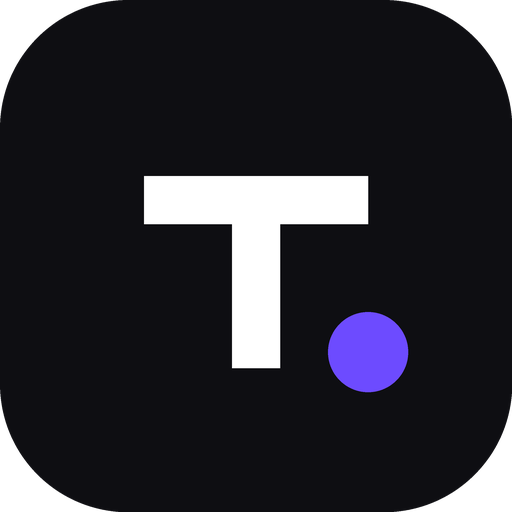
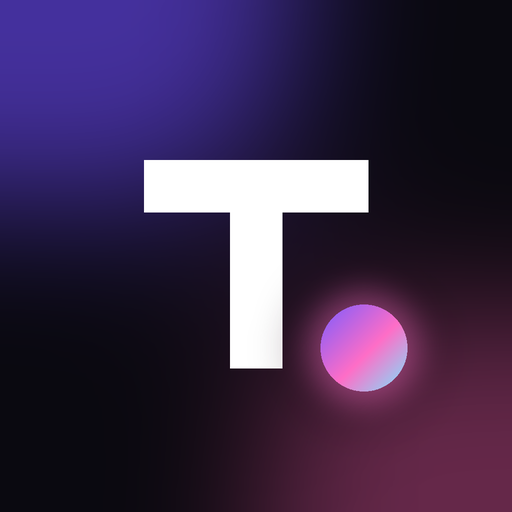
App-style mobile UI: holographic K-pop accents, bottom tab bar, installable home-screen app with safe areas; keep-alive worker
- Hero search: glass pill with gradient ring, icon button on phones so the placeholder never hides
- Trending artist chips, holographic buttons and chat button
- Bottom tab bar (Home / Explore / Sell / Tickets / Account) on phones and tablets
- manifest.json, new app icons (apple-touch-icon, 192, 512, maskable), standalone meta tags,
  header and admin bar padded below the iPhone status bar / Dynamic Island
- Footer language switch removed (already in the header)
- ops/keepalive Cloudflare Worker (every 5 min) + GitHub Action backup (every 10 min)

diff --git a/web/src/components/Layout.jsx b/web/src/components/Layout.jsx
@@ -1,4 +1,4 @@
-import { Check, ChevronDown, Globe, LogOut, Menu, Moon, Search, Shield, Sun, Ticket, User, Wallet, X } from 'lucide-react'
+import { Check, ChevronDown, Compass, Globe, Home as HomeIcon, LogOut, Menu, Moon, Plus, Search, Shield, Sun, Ticket, User, Wallet, X } from 'lucide-react'
 import { QRCodeSVG } from 'qrcode.react'
 import { useEffect, useRef, useState } from 'react'
 import { Link, NavLink, Outlet, useLocation, useNavigate } from 'react-router-dom'
@@ -17,13 +17,19 @@ export function SearchBox({ className = '', big = false }) {
   const { t } = useT()
   const [q, setQ] = useState('')
   return (
-    <form role="search" className={cls('relative', className)}
+    <form role="search" className={cls('relative', big && 'holo-ring rounded-full', className)}
       onSubmit={(e) => { e.preventDefault(); nav(`/concerts${q.trim() ? `?q=${encodeURIComponent(q.trim())}` : ''}`) }}>
-      <Search className={cls('pointer-events-none absolute left-3.5 top-1/2 -translate-y-1/2 text-muted', big ? 'h-5 w-5' : 'h-4 w-4')} />
-      <input value={q} onChange={(e) => setQ(e.target.value)} aria-label={t('Search concerts')}
-        placeholder={t('Search artist, concert, city or venue')}
-        className={cls('input pl-10', big ? 'h-14 rounded-2xl text-base shadow-card' : 'h-10 bg-raised')} />
-      {big && <button className="btn-accent absolute right-2 top-2 h-10 px-5">{t('Search')}</button>}
+      <Search className={cls('pointer-events-none absolute top-1/2 -translate-y-1/2', big ? 'left-5 h-5 w-5 text-white/60' : 'left-3.5 h-4 w-4 text-muted')} />
+      <input value={q} onChange={(e) => setQ(e.target.value)} aria-label={t('Search concerts')} enterKeyHint="search"
+        placeholder={t(big ? 'Search artist, concert or city' : 'Search artist, concert, city or venue')}
+        className={big
+          ? 'h-14 w-full truncate rounded-full border-0 bg-[#0B0A12]/70 pl-12 pr-16 text-[16px] text-white outline-none backdrop-blur-xl transition placeholder:text-white/45 focus:bg-[#0B0A12]/85 sm:h-[60px] sm:pr-36'
+          : 'input h-10 bg-raised pl-10'} />
+      {big && (
+        <button aria-label={t('Search')} className="btn-holo absolute right-1.5 top-1.5 h-11 w-11 !rounded-full !p-0 sm:h-12 sm:w-auto sm:!px-6">
+          <Search className="h-5 w-5 sm:hidden" /><span className="hidden sm:inline">{t('Search')}</span>
+        </button>
+      )}
     </form>
   )
 }
@@ -144,8 +150,8 @@ export default function Layout() {
     return () => window.removeEventListener('scroll', f)
   }, [])
   return (
-    <div className="flex min-h-screen flex-col">
-      <header className={cls('sticky top-0 z-50 border-b transition-all duration-300', scrolled ? 'border-line bg-bg/85 shadow-card backdrop-blur-xl' : 'border-transparent bg-bg/60 backdrop-blur-md')}>
+    <div className="flex min-h-screen flex-col pb-[calc(64px+var(--safe-bottom))] lg:pb-0">
+      <header className={cls('safe-header sticky top-0 z-50 border-b pt-[var(--safe-top)] transition-all duration-300', scrolled ? 'border-line bg-bg/85 shadow-card backdrop-blur-xl' : 'border-transparent bg-bg/60 backdrop-blur-md')}>
         <div className="page flex h-16 items-center gap-3">
           <Link to="/" aria-label="TicketNest" className="transition hover:opacity-80"><Logo /></Link>
           <nav className="ml-3 hidden items-center gap-1 lg:flex">
@@ -181,6 +187,7 @@ export default function Layout() {
       </header>
       <main className="flex-1"><PageTransition><Outlet /></PageTransition></main>
       <Footer />
+      <TabBar />
       <Chatbot />
     </div>
   )
@@ -200,11 +207,47 @@ function Footer() {
           {links.map(([to, l]) => <Link key={to} to={to} className="transition hover:text-ink">{l}</Link>)}
           {support && <a href={`https://t.me/${support}`} target="_blank" rel="noreferrer" className="transition hover:text-ink">{t('Support')}</a>}
         </nav>
-        <LangSwitch up />
       </div>
       <p className="page border-t border-line py-4 text-[11.5px] leading-relaxed text-muted">
         © {new Date().getFullYear()} {siteName} · {t('Independent resale marketplace, not affiliated with any artist or official seller.')}
       </p>
     </footer>
+  )
+}
+
+// Phone / tablet: app-style bottom tabs (thumb reach), with Sell as the raised centre action.
+function TabBar() {
+  const { user } = useApp()
+  const { t } = useT()
+  const loc = useLocation()
+  const p = loc.pathname
+  const tabs = [
+    ['/', t('Home'), HomeIcon, p === '/'],
+    ['/concerts', t('Explore'), Compass, p.startsWith('/concerts') || p.startsWith('/artists')],
+    ['/sell', t('Sell'), Plus, p.startsWith('/sell'), true],
+    [user ? '/account/orders' : '/login', t('Tickets'), Ticket, p.startsWith('/account/orders') || p.startsWith('/orders')],
+    [user ? '/account' : '/login', user ? t('Account') : t('Sign in'), User,
+      (p.startsWith('/account') && !p.startsWith('/account/orders')) || p === '/login' || p === '/register'],
+  ]
+  return (
+    <nav aria-label="Main" className="fixed inset-x-0 bottom-0 z-[60] border-t border-line/80 bg-surface/85 pb-[var(--safe-bottom)] backdrop-blur-xl lg:hidden">
+      <div className="mx-auto grid h-16 max-w-md grid-cols-5 px-2">
+        {tabs.map(([to, label, Icon, on, center]) => center ? (
+          <Link key="sell" to={to} aria-label={label} className="group flex flex-col items-center justify-center">
+            <span className="holo-bg -mt-6 grid h-[52px] w-[52px] place-items-center rounded-full text-white shadow-[0_10px_24px_-6px_rgba(214,90,200,.7)] ring-4 ring-bg transition group-active:scale-90">
+              <Icon className="h-6 w-6" strokeWidth={2.4} />
+            </span>
+            <span className={cls('mt-0.5 text-[10.5px] font-semibold', on ? 'text-ink' : 'text-muted')}>{label}</span>
+          </Link>
+        ) : (
+          <Link key={label} to={to} aria-current={on ? 'page' : undefined}
+            className={cls('relative flex min-w-0 flex-col items-center justify-center gap-1 transition active:scale-90', on ? 'text-accent' : 'text-muted')}>
+            {on && <span className="absolute top-1.5 h-1 w-1 rounded-full bg-accent shadow-[0_0_8px_2px_rgb(var(--accent)/.6)]" />}
+            <Icon className="h-[22px] w-[22px]" strokeWidth={on ? 2.3 : 1.8} />
+            <span className="max-w-full truncate px-1 text-[10.5px] font-semibold">{label}</span>
+          </Link>
+        ))}
+      </div>
+    </nav>
   )
 }

diff --git a/web/src/pages/Home.jsx b/web/src/pages/Home.jsx
@@ -28,24 +28,32 @@ export default function Home() {
     <>
       <section className="relative overflow-hidden text-white">
         <LiveStage />
-        <div className="page relative flex min-h-[600px] flex-col justify-center py-24 sm:min-h-[640px]">
-          <p className="rise inline-flex w-fit items-center gap-2 rounded-full border border-white/15 bg-white/5 px-3 py-1.5 text-[12px] font-semibold tracking-wide text-white/80 backdrop-blur">
+        <div className="page relative flex min-h-[560px] flex-col justify-center py-16 sm:min-h-[640px] sm:py-24">
+          <p className="rise holo-ring inline-flex w-fit items-center gap-2 rounded-full bg-white/[.06] px-3 py-1.5 text-[12px] font-semibold tracking-wide text-white/85 backdrop-blur">
             <span className="relative flex h-2 w-2"><span className="absolute inline-flex h-full w-full animate-ping rounded-full bg-[#7CF29C] opacity-75" /><span className="relative inline-flex h-2 w-2 rounded-full bg-[#7CF29C]" /></span>
             {t('K-pop concert ticket resale · Cambodia')}
           </p>
           <h1 className="rise mt-5 max-w-3xl text-[40px] font-bold leading-[1.04] sm:text-[66px]" style={{ animationDelay: '80ms' }}>
-            {t('Your seat at the show,')} <span className="bg-gradient-to-r from-[#C4B5FF] via-[#FF9BD0] to-[#8BEAF0] bg-clip-text text-transparent">{t("from fans who can't go.")}</span>
+            {t('Your seat at the show,')} <span className="holo-text">{t("from fans who can't go.")}</span>
           </h1>
           <p className="rise mt-5 max-w-xl text-[17px] leading-relaxed text-white/75" style={{ animationDelay: '160ms' }}>
             {t('Every listing is checked by our team before it goes live. Pay securely with KHQR and get your ticket through Telegram.')}
           </p>
-          <div className="rise mt-8 max-w-xl text-ink" style={{ animationDelay: '240ms' }}><SearchBox big /></div>
-          <div className="rise mt-6 flex flex-wrap gap-2" style={{ animationDelay: '320ms' }}>
-            {(data?.artists || []).slice(0, 7).map((a) => (
-              <Link key={a.id} to={`/artists/${a.slug}`} className="rounded-full border border-white/15 bg-white/5 px-3.5 py-1.5 text-[13px] font-medium text-white/85 backdrop-blur transition-all duration-200 hover:-translate-y-0.5 hover:border-white/40 hover:bg-white/15">{a.name}</Link>
-            ))}
-          </div>
-          <div className="rise mt-10 flex flex-wrap gap-x-8 gap-y-3 text-[13px] text-white/70" style={{ animationDelay: '400ms' }}>
+          <div className="rise mt-8 max-w-xl" style={{ animationDelay: '240ms' }}><SearchBox big /></div>
+          {data?.artists?.length > 0 && (
+            <div className="rise no-scrollbar -mx-4 mt-5 flex items-center gap-2 overflow-x-auto px-4 sm:mx-0 sm:flex-wrap sm:px-0" style={{ animationDelay: '320ms' }}>
+              <span className="shrink-0 text-[11px] font-bold uppercase tracking-[.16em] text-white/50">{t('Trending')}</span>
+              {data.artists.slice(0, 7).map((a) => (
+                <Link key={a.id} to={`/artists/${a.slug}`} className="flex shrink-0 items-center gap-1.5 rounded-full border border-white/15 bg-white/[.06] py-1 pl-1 pr-3 text-[13px] font-medium text-white/90 backdrop-blur transition-all duration-200 hover:-translate-y-0.5 hover:border-white/40 hover:bg-white/15">
+                  {a.image_url && !isLogo(a.image_url)
+                    ? <img src={a.image_url} alt="" className="h-6 w-6 rounded-full object-cover" loading="lazy" />
+                    : <span className="holo-bg grid h-6 w-6 place-items-center rounded-full text-[10px] font-bold text-white">{a.name.slice(0, 1)}</span>}
+                  {a.name}
+                </Link>
+              ))}
+            </div>
+          )}
+          <div className="rise mt-8 grid grid-cols-1 gap-2.5 text-[13px] text-white/70 sm:mt-10 sm:flex sm:flex-wrap sm:gap-x-8" style={{ animationDelay: '400ms' }}>
             {[[ShieldCheck, t('Every listing reviewed')], [Zap, t('Instant KHQR payment')], [MessageCircle, t('Delivered via Telegram')]].map(([Icon, l]) => (
               <span key={l} className="flex items-center gap-2"><Icon className="h-4 w-4 text-[#C4B5FF]" />{l}</span>
             ))}

diff --git a/web/src/index.css b/web/src/index.css
@@ -57,7 +57,8 @@ h1, h2, h3, .font-display { font-family: theme('fontFamily.display'); letter-spa
          font-semibold transition-all duration-200 ease-out hover:-translate-y-px active:translate-y-0 active:scale-[.97]
          disabled:pointer-events-none disabled:opacity-50; }
   .btn-primary { @apply btn bg-ink text-bg shadow-sm hover:shadow-lift; }
-  .btn-accent { @apply btn bg-accent text-accent-ink shadow-[0_8px_24px_-10px_rgb(var(--accent)/.7)] hover:shadow-[0_14px_32px_-10px_rgb(var(--accent)/.8)] hover:brightness-110; }
+  .btn-accent { @apply btn bg-accent text-white shadow-[0_8px_24px_-10px_rgb(var(--accent)/.7)] hover:shadow-[0_14px_32px_-10px_rgb(var(--accent)/.8)] hover:brightness-110;
+    background-image: linear-gradient(115deg, rgb(var(--accent)) 0%, #B24BE8 60%, #E0529F 100%); }
   .btn-ghost { @apply btn border border-line bg-surface hover:border-ink/20 hover:bg-raised; }
   /* light sweep across primary buttons on hover */
   .btn-accent::after, .btn-primary::after { content: ''; position: absolute; inset: 0; transform: translateX(-120%);
@@ -122,3 +123,30 @@ h1, h2, h3, .font-display { font-family: theme('fontFamily.display'); letter-spa
 .bar-grow { transform-origin: bottom; animation: grow-y .7s cubic-bezier(.2,.7,.2,1) both; }
 @keyframes draw { from { stroke-dashoffset: var(--len, 1200) } to { stroke-dashoffset: 0 } }
 .line-draw { stroke-dasharray: var(--len, 1200); animation: draw 1.2s ease-out both; }
+
+/* K-pop "holographic" accent: violet -> pink -> cyan, like lightsticks and photocard foil */
+:root { --holo: linear-gradient(115deg, #7C5CFF 0%, #C45BFF 35%, #FF6EC7 65%, #7AE6FF 100%); }
+.holo-bg { background-image: var(--holo); background-size: 160% 160%; animation: holo-shift 8s ease-in-out infinite; }
+.holo-text { background-image: var(--holo); -webkit-background-clip: text; background-clip: text; color: transparent; }
+@layer components {
+  .btn-holo { @apply btn text-white; background-image: var(--holo); background-size: 160% 160%;
+    animation: holo-shift 8s ease-in-out infinite; box-shadow: 0 10px 28px -10px rgba(214, 90, 200, .75); }
+  .btn-holo:hover { filter: brightness(1.08); box-shadow: 0 14px 34px -10px rgba(214, 90, 200, .9); }
+}
+/* 1px gradient ring around a rounded element (search pill, badges) */
+.holo-ring { position: relative; isolation: isolate; }
+.holo-ring::before { content: ''; position: absolute; inset: -1px; z-index: -1; border-radius: inherit; padding: 1px;
+  background: linear-gradient(115deg, rgba(124,92,255,.9), rgba(255,110,199,.75), rgba(122,230,255,.8));
+  -webkit-mask: linear-gradient(#000 0 0) content-box, linear-gradient(#000 0 0); -webkit-mask-composite: xor;
+  mask: linear-gradient(#000 0 0) content-box exclude, linear-gradient(#000 0 0); pointer-events: none; }
+.holo-ring:focus-within::before { box-shadow: 0 0 0 4px rgba(196, 91, 255, .25); }
+@keyframes holo-shift { 0%,100% { background-position: 0% 50% } 50% { background-position: 100% 50% } }
+
+/* Installed app (home screen): the status bar is white text over the page, so keep a dark band behind it in light mode */
+.safe-header::before { content: ''; position: absolute; inset: 0 0 auto; height: var(--safe-top); background: #0A0910; }
+.dark .safe-header::before { background: transparent; }
+@media (display-mode: standalone) {
+  html, body { overscroll-behavior-y: none; }
+  body { -webkit-user-select: none; user-select: none; }
+  input, textarea, [contenteditable], p, td { -webkit-user-select: text; user-select: text; }
+}

diff --git a/web/src/pages/admin/AdminApp.jsx b/web/src/pages/admin/AdminApp.jsx
@@ -79,7 +79,7 @@ export default function AdminApp() {
       </aside>
 
       {/* phone / tablet top bar */}
-      <header className="sticky top-0 z-40 flex h-14 items-center gap-3 border-b border-line bg-surface/90 px-4 backdrop-blur-xl lg:hidden">
+      <header className="sticky top-0 z-40 flex h-[calc(56px+var(--safe-top))] items-center gap-3 border-b border-line bg-surface/90 px-4 pt-[var(--safe-top)] backdrop-blur-xl lg:hidden">
         <button onClick={() => setOpen(true)} className="grid h-10 w-10 place-items-center rounded-xl border border-line" aria-label="Menu"><Menu className="h-5 w-5" /></button>
         <div className="min-w-0 flex-1"><p className="text-[11px] font-semibold uppercase tracking-wider text-accent">Admin</p><p className="-mt-0.5 truncate font-semibold">{current?.[1] || 'TicketNest'}</p></div>
         <Avatar user={user} size={34} />
@@ -87,7 +87,7 @@ export default function AdminApp() {
       {open && (
         <div className="fixed inset-0 z-50 lg:hidden" onClick={() => setOpen(false)}>
           <div className="absolute inset-0 bg-black/50 backdrop-blur-sm" />
-          <div className="absolute inset-y-0 left-0 flex w-[82%] max-w-[300px] flex-col bg-surface shadow-lift" style={{ animation: 'drawer .28s cubic-bezier(.2,.7,.2,1)' }} onClick={(e) => e.stopPropagation()}>
+          <div className="absolute inset-y-0 left-0 flex w-[82%] max-w-[300px] flex-col bg-surface pb-[var(--safe-bottom)] pt-[var(--safe-top)] shadow-lift" style={{ animation: 'drawer .28s cubic-bezier(.2,.7,.2,1)' }} onClick={(e) => e.stopPropagation()}>
             <div className="flex h-14 items-center justify-between px-5"><Logo /><button onClick={() => setOpen(false)} aria-label="Close"><X className="h-5 w-5" /></button></div>
             <div className="flex-1 overflow-y-auto py-2"><NavList admin={admin} onPick={() => setOpen(false)} /></div>
             <Footer user={user} logout={logout} dark={dark} applyTheme={applyTheme} />
@@ -95,7 +95,7 @@ export default function AdminApp() {
         </div>
       )}
 
-      <main className="min-w-0 p-4 sm:p-6 lg:p-8">
+      <main className="min-w-0 p-4 pb-[calc(16px+var(--safe-bottom))] sm:p-6 lg:p-8">
         <Suspense fallback={<Loading />}>
           <PageTransition>
             <Routes>

diff --git a/web/src/components/Chatbot.jsx b/web/src/components/Chatbot.jsx
@@ -88,12 +88,12 @@ export default function Chatbot() {
   return (
     <>
       <button onClick={() => setOpen((o) => !o)} aria-label={t('Help chat')}
-        className={cls('fixed bottom-[calc(20px+var(--safe-bottom))] right-5 z-[70] grid h-14 w-14 place-items-center rounded-full bg-accent text-accent-ink shadow-[0_12px_32px_-8px_rgb(var(--accent)/.8)] transition-all duration-300 hover:scale-105 active:scale-95',
+        className={cls('fixed bottom-[calc(80px+var(--safe-bottom))] right-4 z-[70] lg:bottom-[calc(20px+var(--safe-bottom))] lg:right-5 grid h-14 w-14 place-items-center rounded-full bg-accent text-accent-ink shadow-[0_12px_32px_-8px_rgb(var(--accent)/.8)] transition-all duration-300 hover:scale-105 active:scale-95',
           open && 'rotate-90')}>
         {open ? <X className="h-6 w-6" /> : <MessageCircle className="h-6 w-6" />}
       </button>
       {open && (
-        <div className="pop fixed bottom-[calc(88px+var(--safe-bottom))] right-3 z-[70] flex h-[min(560px,calc(100vh-120px))] w-[calc(100vw-24px)] max-w-[380px] flex-col overflow-hidden rounded-3xl border border-line bg-surface shadow-lift sm:right-5">
+        <div className="pop fixed bottom-[calc(148px+var(--safe-bottom))] right-3 z-[70] flex h-[min(560px,calc(100dvh-210px-var(--safe-top)-var(--safe-bottom)))] lg:bottom-[calc(88px+var(--safe-bottom))] lg:h-[min(560px,calc(100vh-120px))] w-[calc(100vw-24px)] max-w-[380px] flex-col overflow-hidden rounded-3xl border border-line bg-surface shadow-lift sm:right-5">
           <div className="flex items-center gap-3 border-b border-line bg-ink px-4 py-3.5 text-bg">
             <span className="grid h-9 w-9 place-items-center rounded-full bg-accent text-accent-ink"><Sparkles className="h-4 w-4" /></span>
             <div className="min-w-0 flex-1"><p className="text-sm font-semibold">{t('TicketNest help')}</p><p className="text-[12px] text-bg/60">{t('Usually answers instantly')}</p></div>

diff --git a/web/index.html b/web/index.html
@@ -3,9 +3,19 @@
   <head>
     <meta charset="UTF-8" />
     <meta name="viewport" content="width=device-width, initial-scale=1, viewport-fit=cover" />
-    <meta name="theme-color" content="#0E0E12" />
+    <meta name="theme-color" content="#0A0910" />
+    <!-- installable app: home-screen icon, full screen without the browser bar, content under the iPhone status bar -->
+    <link rel="manifest" href="/manifest.json" />
+    <link rel="apple-touch-icon" href="/apple-touch-icon.png" />
+    <meta name="mobile-web-app-capable" content="yes" />
+    <meta name="apple-mobile-web-app-capable" content="yes" />
+    <meta name="apple-mobile-web-app-title" content="TicketNest" />
+    <meta name="apple-mobile-web-app-status-bar-style" content="black-translucent" />
+    <meta name="application-name" content="TicketNest" />
+    <meta name="format-detection" content="telephone=no" />
     <meta name="description" content="TicketNest — buy and sell K-pop concert tickets safely. Verified listings, KHQR payment, delivery through Telegram." />
     <link rel="icon" href="/favicon.svg" type="image/svg+xml" />
+    <link rel="icon" href="/icon-192.png" type="image/png" sizes="192x192" />
     <title>TicketNest · K-pop concert tickets</title>
     <!-- Telegram Mini App SDK (only active inside Telegram) -->
     <script src="https://telegram.org/js/telegram-web-app.js"></script>

diff --git a/ops/keepalive/index.js b/ops/keepalive/index.js
@@ -1,0 +1,23 @@
+// Cloudflare Worker: pings the TicketNest API every 5 minutes so Render's free plan doesn't put it to
+// sleep (a sleeping API makes the first visitor wait ~1 minute while concerts load). /api/health doesn't
+// touch the database, so Neon's free compute can still sleep. Deploy: cd ops/keepalive && npx wrangler@4 deploy
+const TARGET = 'https://ticketnest-api.onrender.com/api/health'
+
+async function ping() {
+  const t0 = Date.now()
+  try {
+    const r = await fetch(TARGET, { headers: { 'User-Agent': 'ticketnest-keepalive' }, cf: { cacheTtl: 0 } })
+    return { ok: r.ok, status: r.status, ms: Date.now() - t0 }
+  } catch (e) {
+    return { ok: false, error: String(e), ms: Date.now() - t0 }
+  }
+}
+
+export default {
+  async scheduled(_event, _env, ctx) {
+    ctx.waitUntil(ping())
+  },
+  async fetch() {
+    return Response.json({ target: TARGET, ...(await ping()) })
+  },
+}

diff --git a/web/src/context/App.jsx b/web/src/context/App.jsx
@@ -51,7 +51,7 @@ export function AppProvider({ children }) {
   return (
     <Ctx.Provider value={value}>
       {children}
-      <div className="pointer-events-none fixed inset-x-0 bottom-[calc(16px+var(--safe-bottom))] z-[100] flex flex-col items-center gap-2 px-4">
+      <div className="pointer-events-none fixed inset-x-0 bottom-[calc(84px+var(--safe-bottom))] z-[100] lg:bottom-[calc(16px+var(--safe-bottom))] flex flex-col items-center gap-2 px-4">
         {toasts.map((t) => (
           <div key={t.id} role="status"
             className={`rise pointer-events-auto max-w-md rounded-xl px-4 py-3 text-sm font-medium shadow-lift ${t.kind === 'error' ? 'bg-bad text-white' : 'bg-ink text-bg'}`}>

diff --git a/web/src/i18n/km.js b/web/src/i18n/km.js
@@ -448,4 +448,6 @@ export default {
   '{n} sold': 'លក់បាន {n}',
   '{n} tickets available': 'មានសំបុត្រ {n}',
   '{n} upcoming': 'ខាងមុខ {n}',
+  'Account': 'គណនី',
+  'Trending': 'ពេញនិយម',
 }

diff --git a/web/src/i18n/zh.js b/web/src/i18n/zh.js
@@ -448,4 +448,6 @@ export default {
   '{n} sold': '已售 {n}',
   '{n} tickets available': '有 {n} 张门票',
   '{n} upcoming': '{n} 场即将举行',
+  'Account': '账户',
+  'Trending': '热门',
 }
